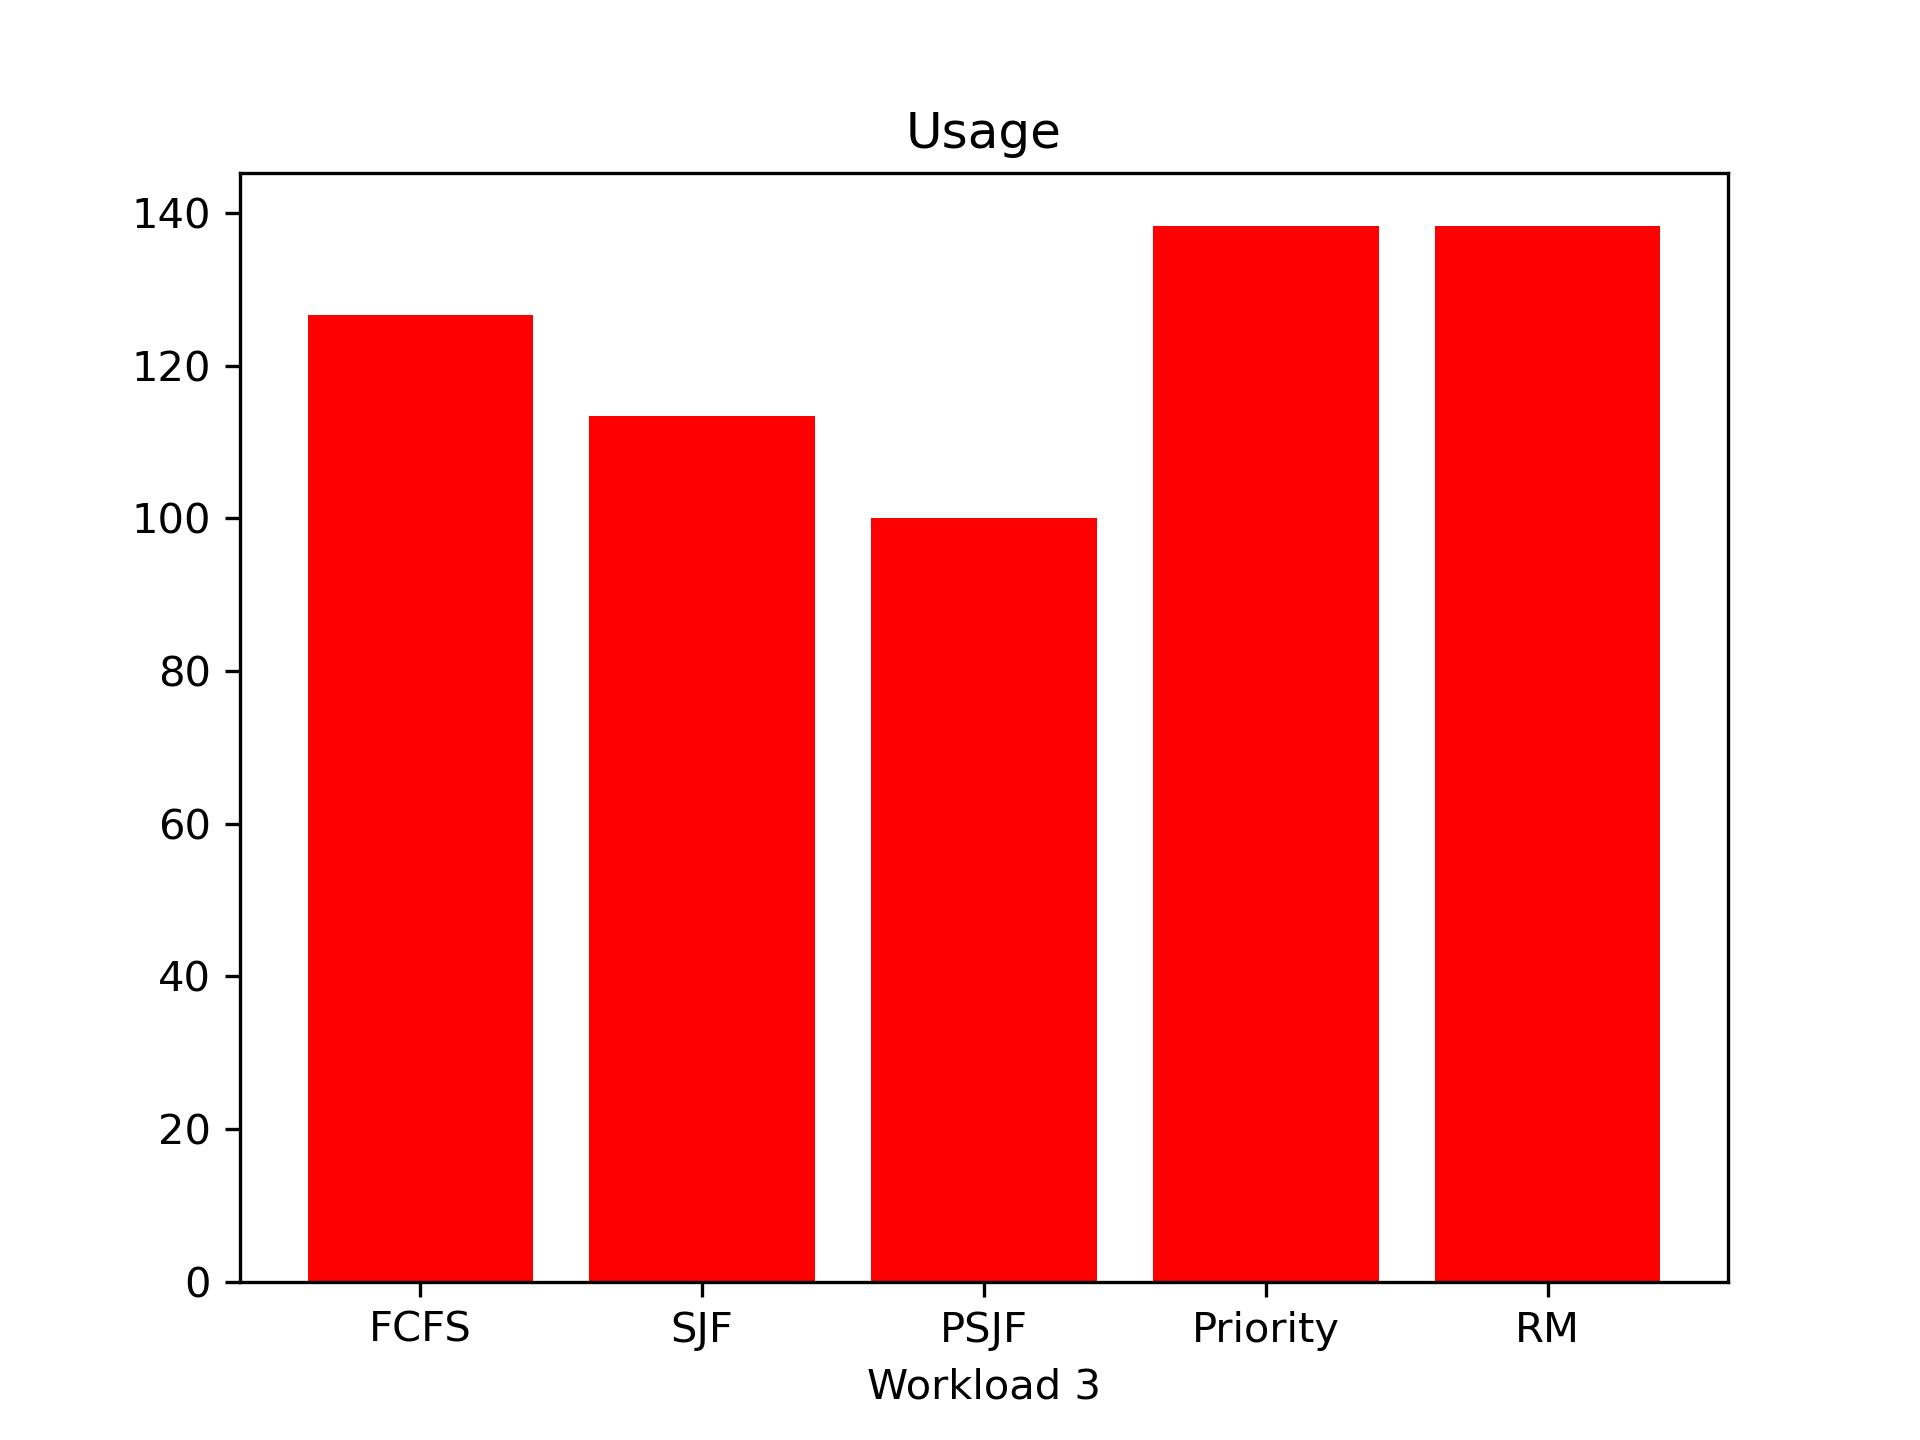
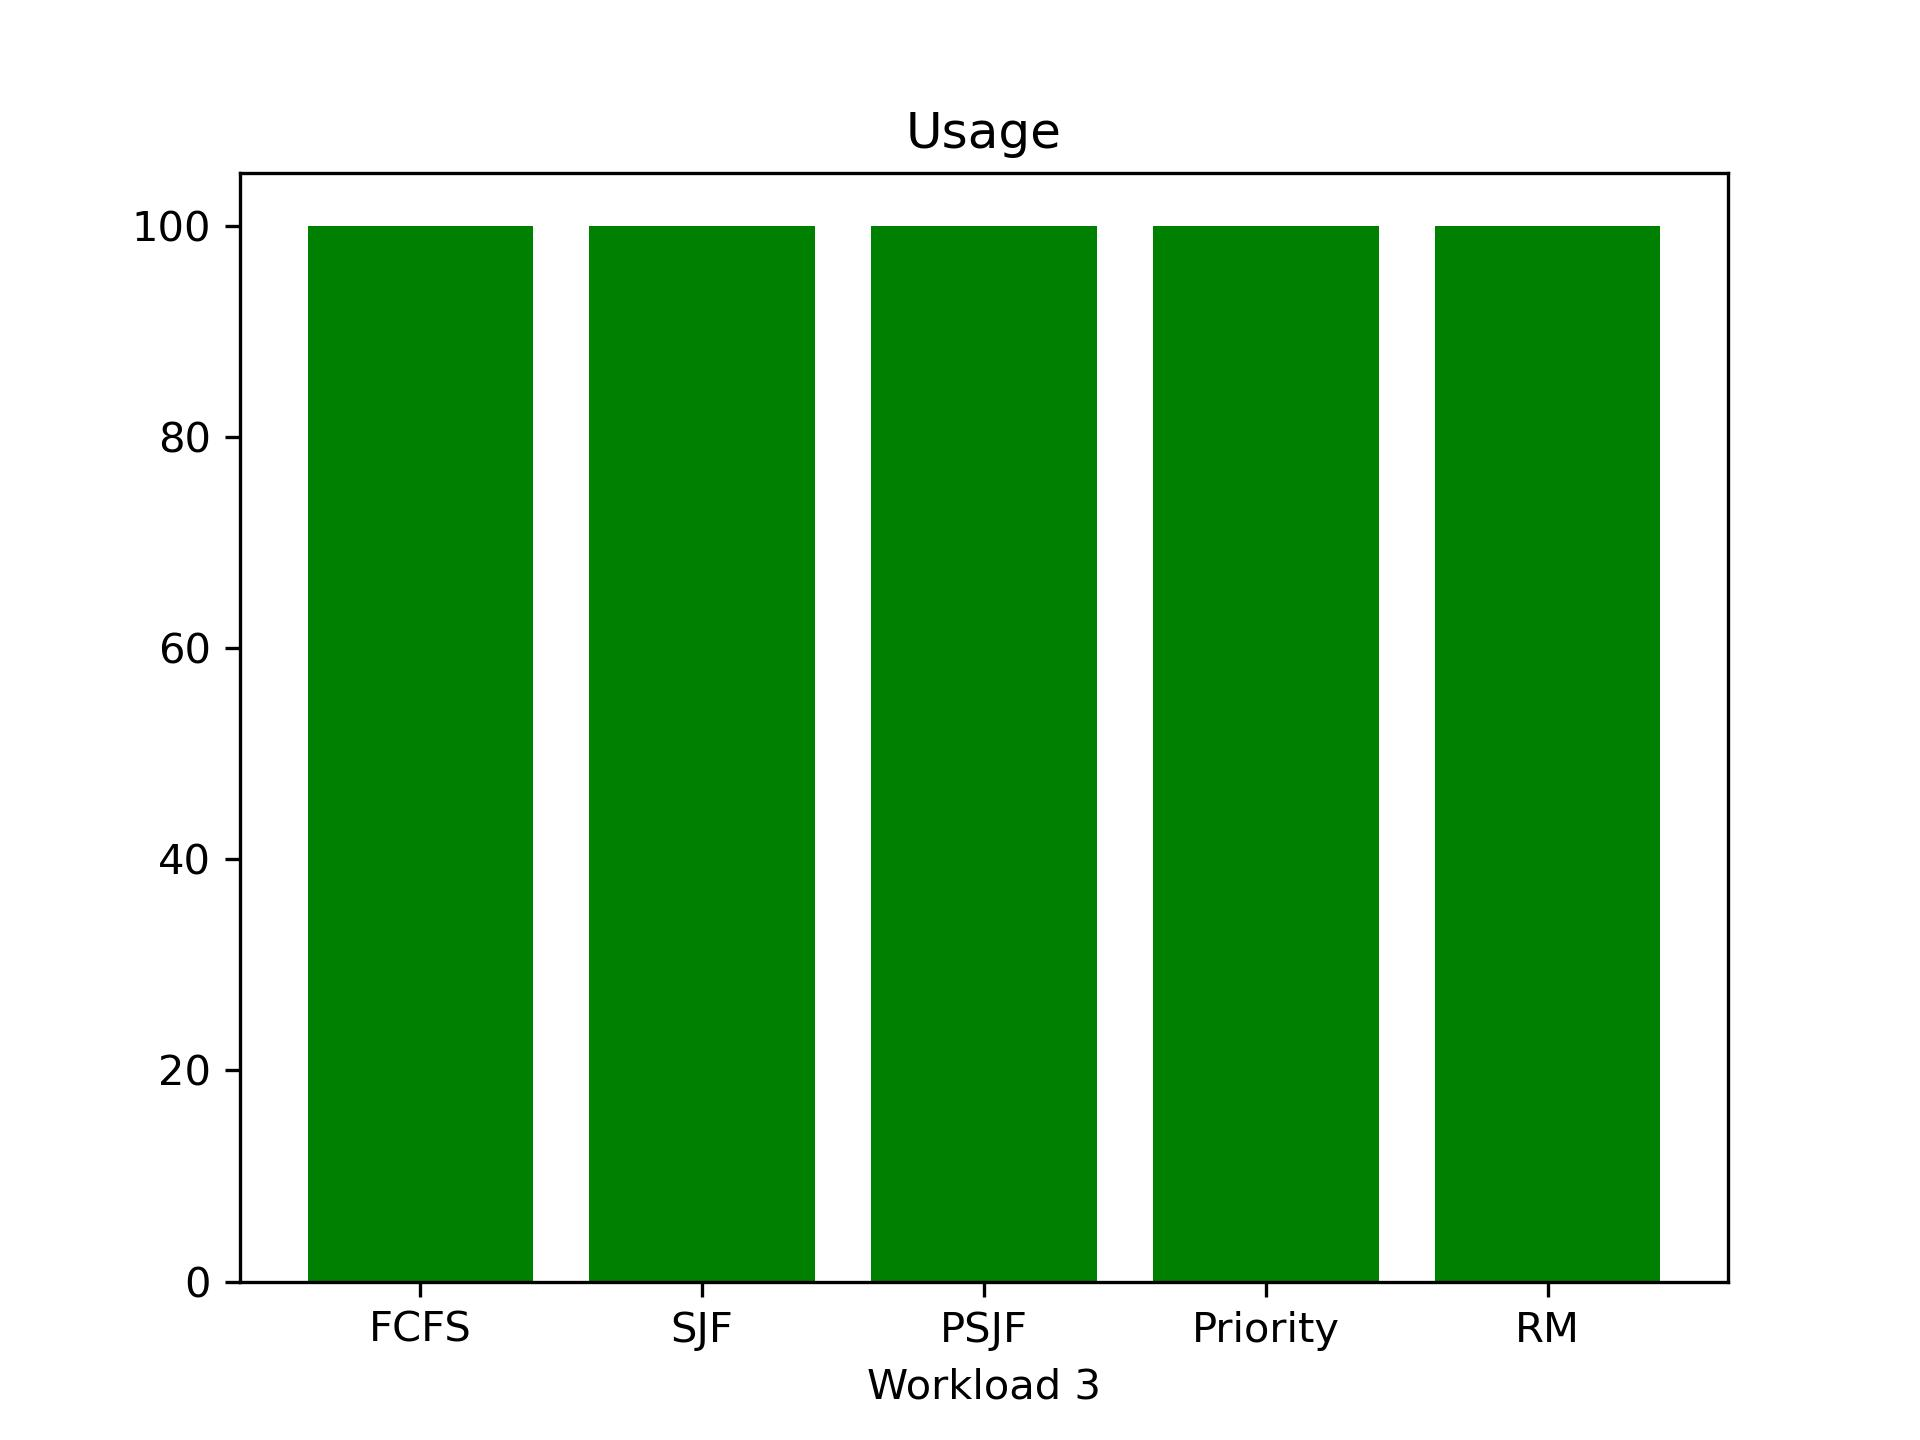
Different colors

diff --git a/histograms.py b/histograms.py
@@ -7,15 +7,16 @@ if not os.path.exists(output_dir):
 
 
 # these can be all sorts of metrics
-def plot_workload(name, metric, listAlgs, listTimes):
+def plot_workload(name, metric, listAlgs, listTimes, hist_color):
     save_name_original = name + " " + metric + ".jpg"
     save_name = save_name_original.replace(" ", "_")
     save_path = os.path.join(output_dir, save_name)
     print(f"![{save_name_original}]({save_path})")
-    plt.bar(listAlgs, listTimes, color="red")
+    plt.bar(listAlgs, listTimes, color=hist_color)
     plt.xlabel(name)
     plt.title(metric)
     plt.savefig(save_path, format="jpg", dpi=300)
+    plt.clf()
 
 
 class Workload:
@@ -51,7 +52,7 @@ for line in content:
             loads[current_load].waits.append(float(words[2]))
 
 for i in range(1, count_loads + 1):
-    plot_workload(f"Workload {i}", "Usage", loads[i].algorithms, loads[i].usages)
-    plot_workload(f"Workload {i}", "Turnaround", loads[i].algorithms, loads[i].tas)
-    plot_workload(f"Workload {i}", "Waiting", loads[i].algorithms, loads[i].waits)
+    plot_workload(f"Workload {i}", "Usage", loads[i].algorithms, loads[i].usages, "green")
+    plot_workload(f"Workload {i}", "Turnaround", loads[i].algorithms, loads[i].tas, "blue")
+    plot_workload(f"Workload {i}", "Waiting", loads[i].algorithms, loads[i].waits, "red")
 
